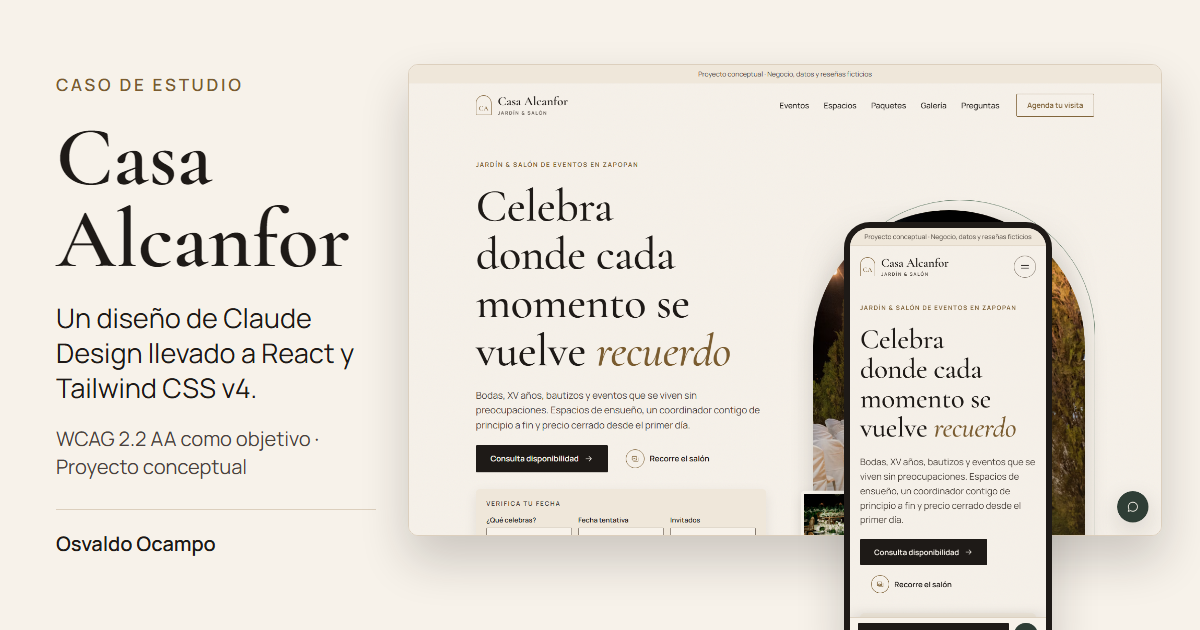
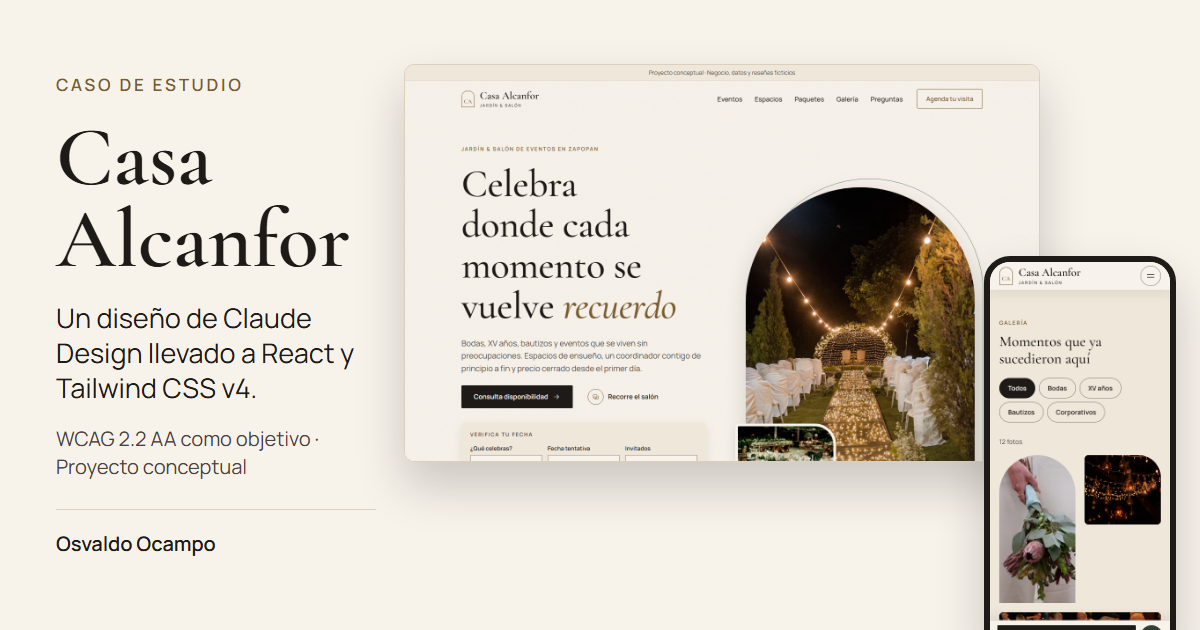
feat: móvil en el lateral de las portadas, con la galería
- El móvil se encima solo un 28 % sobre el borde derecho del desktop; el resto queda fuera y sale por abajo
- Desktop reducido a 634 px para dejar ese espacio; el script falla si el arco queda a la vista menos del 70 % (hoy 98 %)
- El móvil muestra la galería en lugar del hero, para no repetir el texto del desktop
- alt de las dos imágenes actualizado

diff --git a/scripts/generate-og.ts b/scripts/generate-og.ts
@@ -57,10 +57,27 @@ const COVERS: Cover[] = [
 // ── Composición (px del lienzo de 1200 × 630) ────────────────────
 const CANVAS = { width: 1200, height: 630 }
 const COLUMN = { left: 56, width: 320 }
-const DESKTOP = { left: 408, top: 64, width: 752, viewport: { width: 1440, height: 900 } }
-const DESKTOP_HEIGHT = (DESKTOP.width * DESKTOP.viewport.height) / DESKTOP.viewport.width
-const PHONE = { width: 196, viewport: { width: 390, height: 844 }, overflow: 28, frame: 6 }
+// El móvil va en el lateral derecho: solo su borde izquierdo (OVERLAP de su ancho) se encima sobre el desktop,
+// el resto queda fuera, y sale un poco por el borde inferior. El desktop ocupa lo que queda entre la columna y el móvil.
+const PHONE = { width: 180, viewport: { width: 390, height: 844 }, overflow: 28, frame: 6, right: 24 }
+const PHONE_OUTER = PHONE.width + 2 * PHONE.frame
 const PHONE_HEIGHT = (PHONE.width * PHONE.viewport.height) / PHONE.viewport.width
+const PHONE_LEFT = CANVAS.width - PHONE.right - PHONE_OUTER
+const PHONE_TOP = Math.round(CANVAS.height + PHONE.overflow - PHONE_HEIGHT - 2 * PHONE.frame)
+const OVERLAP = 0.28
+/** Sección que muestra el móvil: distinta del hero del desktop para no repetir el mismo texto. */
+const PHONE_SECTION = '#galeria'
+
+const DESKTOP_LEFT = COLUMN.left + COLUMN.width + 28
+const DESKTOP = {
+  left: DESKTOP_LEFT,
+  top: 64,
+  width: Math.round(PHONE_LEFT + OVERLAP * PHONE_OUTER - DESKTOP_LEFT),
+  viewport: { width: 1440, height: 900 },
+}
+const DESKTOP_HEIGHT = (DESKTOP.width * DESKTOP.viewport.height) / DESKTOP.viewport.width
+/** Mínimo de la foto del arco que debe quedar a la vista. */
+const MIN_ARCH_VISIBLE = 0.7
 
 // ── Capturas del build ───────────────────────────────────────────
 const server = await preview({ preview: { port: 4175, strictPort: true } })
@@ -68,6 +85,11 @@ const url = server.resolvedUrls?.local[0] ?? 'http://localhost:4175/'
 const browser = await chromium.launch()
 /** Corren en el navegador; van como texto porque tsconfig.node.json no incluye los tipos del DOM. */
 const FONTS_READY = 'document.fonts.ready.then(() => true)'
+/** Espera a que las imágenes visibles terminen de cargar (las lazy aparecen al hacer scroll). */
+const IMAGES_READY = `Promise.all([...document.images]
+  .filter((img) => { const r = img.getBoundingClientRect(); return r.bottom > 0 && r.top < innerHeight })
+  .map((img) => img.complete ? null : new Promise((done) => { img.onload = img.onerror = done })))
+  .then(() => true)`
 /** Caja de la foto más grande del hero (el arco), en px del viewport. */
 const ARCH_BOX = `(() => {
   const imgs = [...document.querySelectorAll('#top img')].map((img) => img.getBoundingClientRect())
@@ -77,12 +99,20 @@ const ARCH_BOX = `(() => {
 
 type Box = { x: number; y: number; width: number; height: number }
 
-/** Captura la primera pantalla. Con reduced motion no hay reveal ni parallax: todo queda en su lugar. */
-async function capture(viewport: { width: number; height: number }, deviceScaleFactor: number) {
+/**
+ * Captura una pantalla: la primera o, con `section`, la que empieza en esa sección (el scroll respeta el
+ * scroll-padding del header). Con reduced motion no hay reveal ni parallax: todo queda en su lugar.
+ */
+async function capture(viewport: { width: number; height: number }, deviceScaleFactor: number, section?: string) {
   const context = await browser.newContext({ viewport, deviceScaleFactor, reducedMotion: 'reduce', locale: 'es-MX' })
   const page = await context.newPage()
   await page.goto(url, { waitUntil: 'networkidle' })
+  if (section) {
+    await page.evaluate(`document.querySelector(${JSON.stringify(section)}).scrollIntoView({ block: 'start' })`)
+    await page.waitForLoadState('networkidle')
+  }
   await page.evaluate(FONTS_READY)
+  await page.evaluate(IMAGES_READY)
   const arch = (await page.evaluate(ARCH_BOX)) as Box
   const shot = (await page.screenshot()).toString('base64')
   await context.close()
@@ -90,15 +120,21 @@ async function capture(viewport: { width: number; height: number }, deviceScaleF
 }
 
 const desktop = await capture(DESKTOP.viewport, 1)
-const mobile = await capture(PHONE.viewport, 2)
+const mobile = await capture(PHONE.viewport, 2, PHONE_SECTION)
 
-// El móvil se centra sobre el arco del desktop (nunca sobre el texto del hero) y sale un poco por abajo.
+// Comprueba que el móvil deja a la vista al menos MIN_ARCH_VISIBLE de la foto del arco.
 const scale = DESKTOP.width / DESKTOP.viewport.width
-const archCenter = DESKTOP.left + (desktop.arch.x + desktop.arch.width / 2) * scale
-const archLeft = DESKTOP.left + desktop.arch.x * scale
-const phoneOuter = PHONE.width + 2 * PHONE.frame
-const phoneLeft = Math.round(Math.min(Math.max(archCenter - phoneOuter / 2, archLeft), CANVAS.width - phoneOuter - 16))
-const phoneTop = Math.round(CANVAS.height + PHONE.overflow - PHONE_HEIGHT - 2 * PHONE.frame)
+const arch = {
+  left: DESKTOP.left + desktop.arch.x * scale,
+  top: DESKTOP.top + desktop.arch.y * scale,
+  right: DESKTOP.left + (desktop.arch.x + desktop.arch.width) * scale,
+  bottom: Math.min(DESKTOP.top + (desktop.arch.y + desktop.arch.height) * scale, DESKTOP.top + DESKTOP_HEIGHT),
+}
+const covered =
+  Math.max(0, arch.right - Math.max(arch.left, PHONE_LEFT)) * Math.max(0, arch.bottom - Math.max(arch.top, PHONE_TOP))
+const archVisible = 1 - covered / ((arch.right - arch.left) * (arch.bottom - arch.top))
+if (archVisible < MIN_ARCH_VISIBLE) throw new Error(`El móvil tapa el arco: queda a la vista el ${(archVisible * 100).toFixed(0)} %`)
+console.log(`Desktop de ${DESKTOP.width} px; el móvil se encima un ${Math.round(OVERLAP * 100)} %; arco a la vista: ${(archVisible * 100).toFixed(0)} %`)
 
 const paragraph = (className: string, text?: string) => (text ? `<p class="${className}">${text}</p>` : '')
 
@@ -117,7 +153,7 @@ async function compose(page: Page, cover: Cover) {
   .author { margin: 8px 0 0; padding-top: 20px; border-top: 1px solid ${BORDER}; font-size: 20px; font-weight: 600; }
   .shot { position: absolute; display: block; box-shadow: 0 24px 48px rgb(30 26 23 / .2); }
   .desktop { left: ${DESKTOP.left}px; top: ${DESKTOP.top}px; width: ${DESKTOP.width}px; height: ${DESKTOP_HEIGHT}px; border: 1px solid ${BORDER}; border-radius: 10px; }
-  .mobile { left: ${phoneLeft}px; top: ${phoneTop}px; width: ${PHONE.width}px; height: ${PHONE_HEIGHT}px; border: ${PHONE.frame}px solid ${TEXT}; border-radius: 26px; }
+  .mobile { left: ${PHONE_LEFT}px; top: ${PHONE_TOP}px; width: ${PHONE.width}px; height: ${PHONE_HEIGHT}px; border: ${PHONE.frame}px solid ${TEXT}; border-radius: 26px; }
 </style>
 <div class="copy">
   ${paragraph('eyebrow', cover.eyebrow)}

diff --git a/index.html b/index.html
@@ -35,7 +35,7 @@
     <meta property="og:image:height" content="630" />
     <meta
       property="og:image:alt"
-      content="La página de Casa Alcanfor en un escritorio y en un teléfono, con el titular «Celebra donde cada momento se vuelve recuerdo» y una foto en arco; a la izquierda, el texto: Casa Alcanfor, Jardín &amp; Salón de Eventos. Proyecto conceptual."
+      content="La página de Casa Alcanfor en un escritorio, con el titular «Celebra donde cada momento se vuelve recuerdo» y una foto en arco de un pasillo de ceremonia con luces; a la derecha, un teléfono con la galería de fotos. A la izquierda, el texto: Casa Alcanfor, Jardín &amp; Salón de Eventos. Proyecto conceptual."
     />
 
     <!-- Twitter / X -->
@@ -48,7 +48,7 @@
     <meta name="twitter:image" content="/og-image.png" />
     <meta
       name="twitter:image:alt"
-      content="La página de Casa Alcanfor en un escritorio y en un teléfono, con el titular «Celebra donde cada momento se vuelve recuerdo» y una foto en arco; a la izquierda, el texto: Casa Alcanfor, Jardín &amp; Salón de Eventos. Proyecto conceptual."
+      content="La página de Casa Alcanfor en un escritorio, con el titular «Celebra donde cada momento se vuelve recuerdo» y una foto en arco de un pasillo de ceremonia con luces; a la derecha, un teléfono con la galería de fotos. A la izquierda, el texto: Casa Alcanfor, Jardín &amp; Salón de Eventos. Proyecto conceptual."
     />
 
     <link
